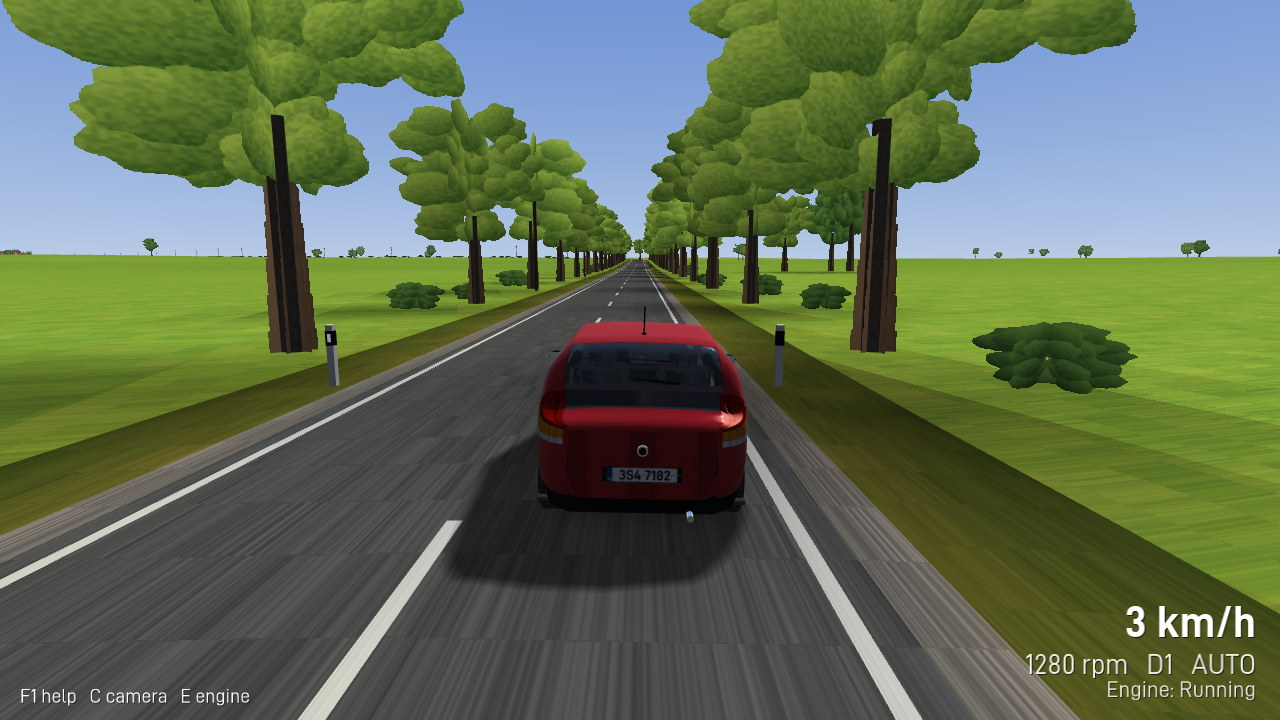
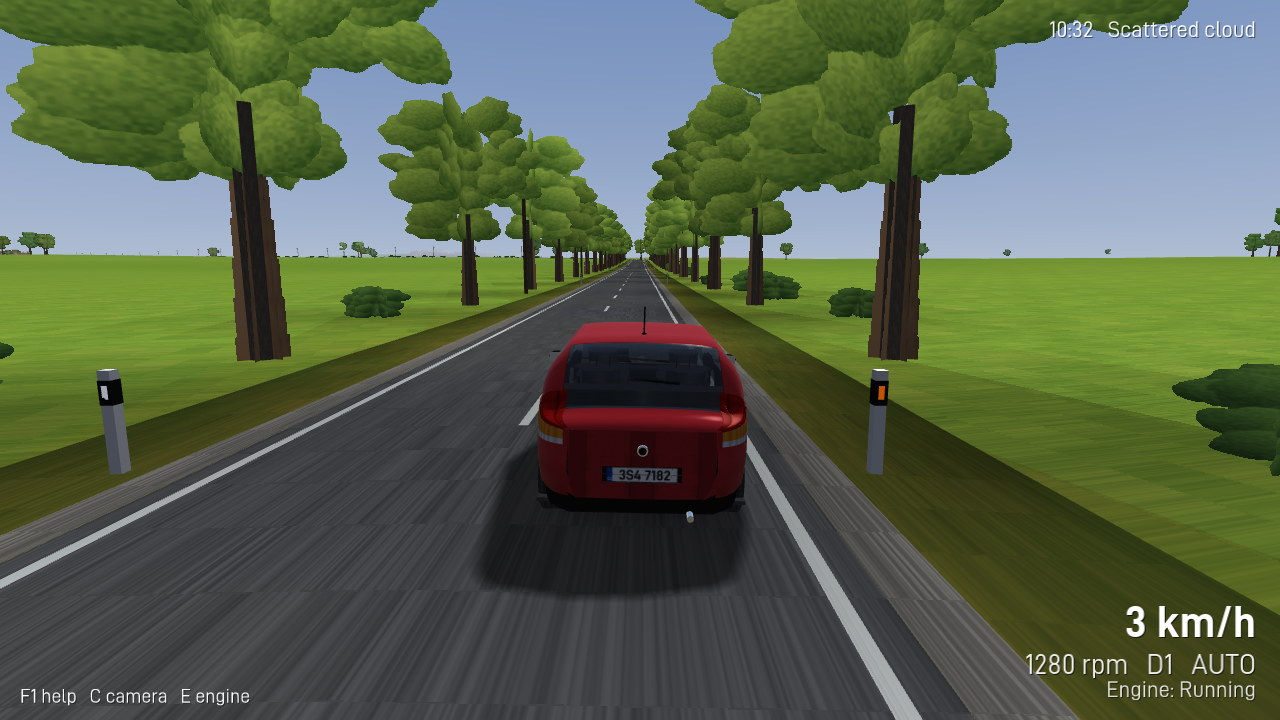
Refresh the curated screenshots for the wider world
scripts/capture_set.sh re-shot the whole set against the new map and added
eight pictures: the square at dusk and a lit street at night, the headlamp
beam on a village road, the signalised junction "U kaple", the square under
an overcast lid and in the rain, and the three new settlements. The README
shows them in three more rows.

The hero and cockpit PNGs that slipped into two earlier commits are gone
again: the README uses the JPEGs, and only the instrument cluster is kept
lossless.

diff --git a/README.md b/README.md
@@ -6,7 +6,8 @@ framework (branch `next`) and [Sharp Runtime](https://github.com/libcna/sharp-ru
 (branch `next`).
 
 There are no jobs, missions, deliveries or economy. You start a car, drive through a Czech
-town, its outskirts, the countryside and a forest, meet traffic, and enjoy driving.
+town and the villages around it, the countryside and a forest, meet traffic, and enjoy driving
+-- at any hour and in any weather.
 
 | Hero | Cockpit | Instrument cluster |
 | --- | --- | --- |
@@ -19,6 +20,18 @@ town, its outskirts, the countryside and a forest, meet traffic, and enjoy drivi
 | Forest | Town square | Headlights |
 | --- | --- | --- |
 | ![Forest road](docs/screenshots/forest.jpg) | ![The square with the church, the memorial and parked cars](docs/screenshots/square.jpg) | ![Headlights on](docs/screenshots/lights.jpg) |
+
+| Dusk | Night | Headlamps on a village street |
+| --- | --- | --- |
+| ![The square at 21:30](docs/screenshots/dusk.jpg) | ![A lit street at 23:00](docs/screenshots/night.jpg) | ![The beam on the road at night](docs/screenshots/headlights.jpg) |
+
+| Overcast | Rain | Traffic signals |
+| --- | --- | --- |
+| ![The square under a solid lid](docs/screenshots/overcast.jpg) | ![Rain on the cobbles](docs/screenshots/rain.jpg) | ![The signalised junction U kaple](docs/screenshots/signals.jpg) |
+
+| Březí | Podhájí | Nové Město |
+| --- | --- | --- |
+| ![The village of Březí on the main road](docs/screenshots/brezi.jpg) | ![Podhájí on the southern ring](docs/screenshots/podhaji.jpg) | ![The small town of Nové Město](docs/screenshots/mesto.jpg) |
 
 All pictures are headless captures from the development container (Xvfb, Mesa llvmpipe
 software OpenGL ES 3, no multisampling); a GPU renders the same frames with sharper texture
